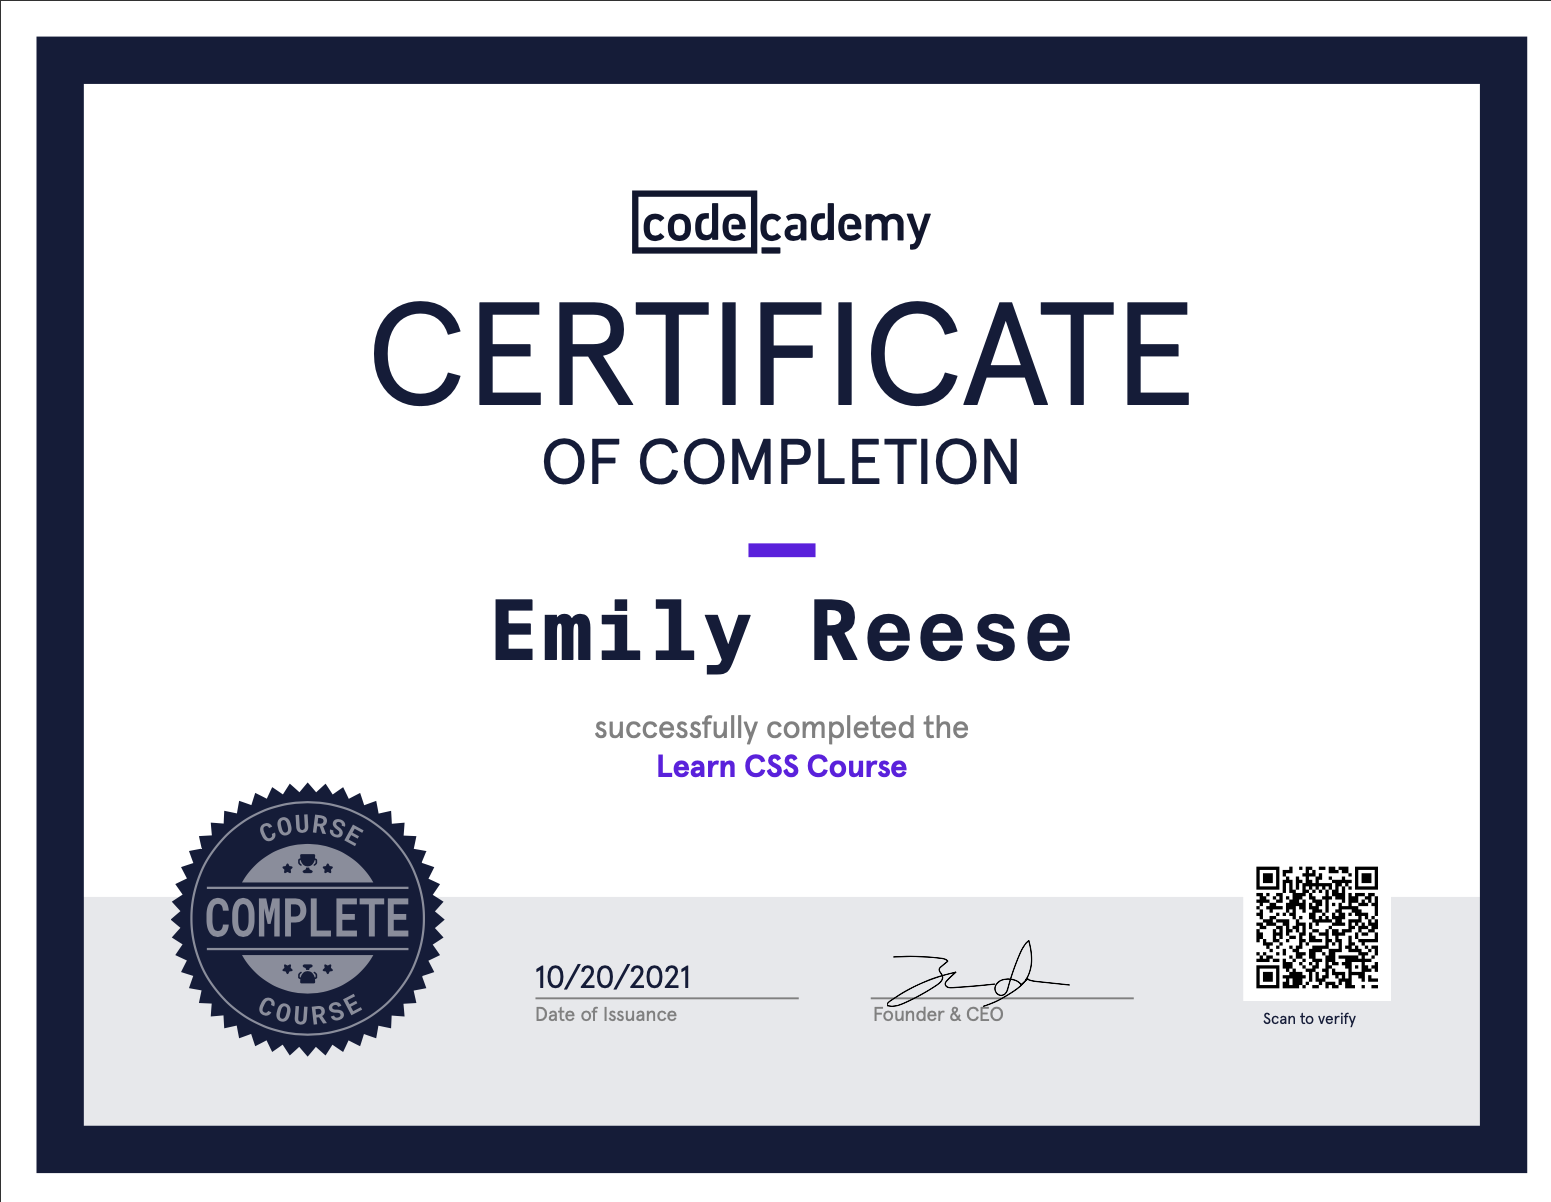
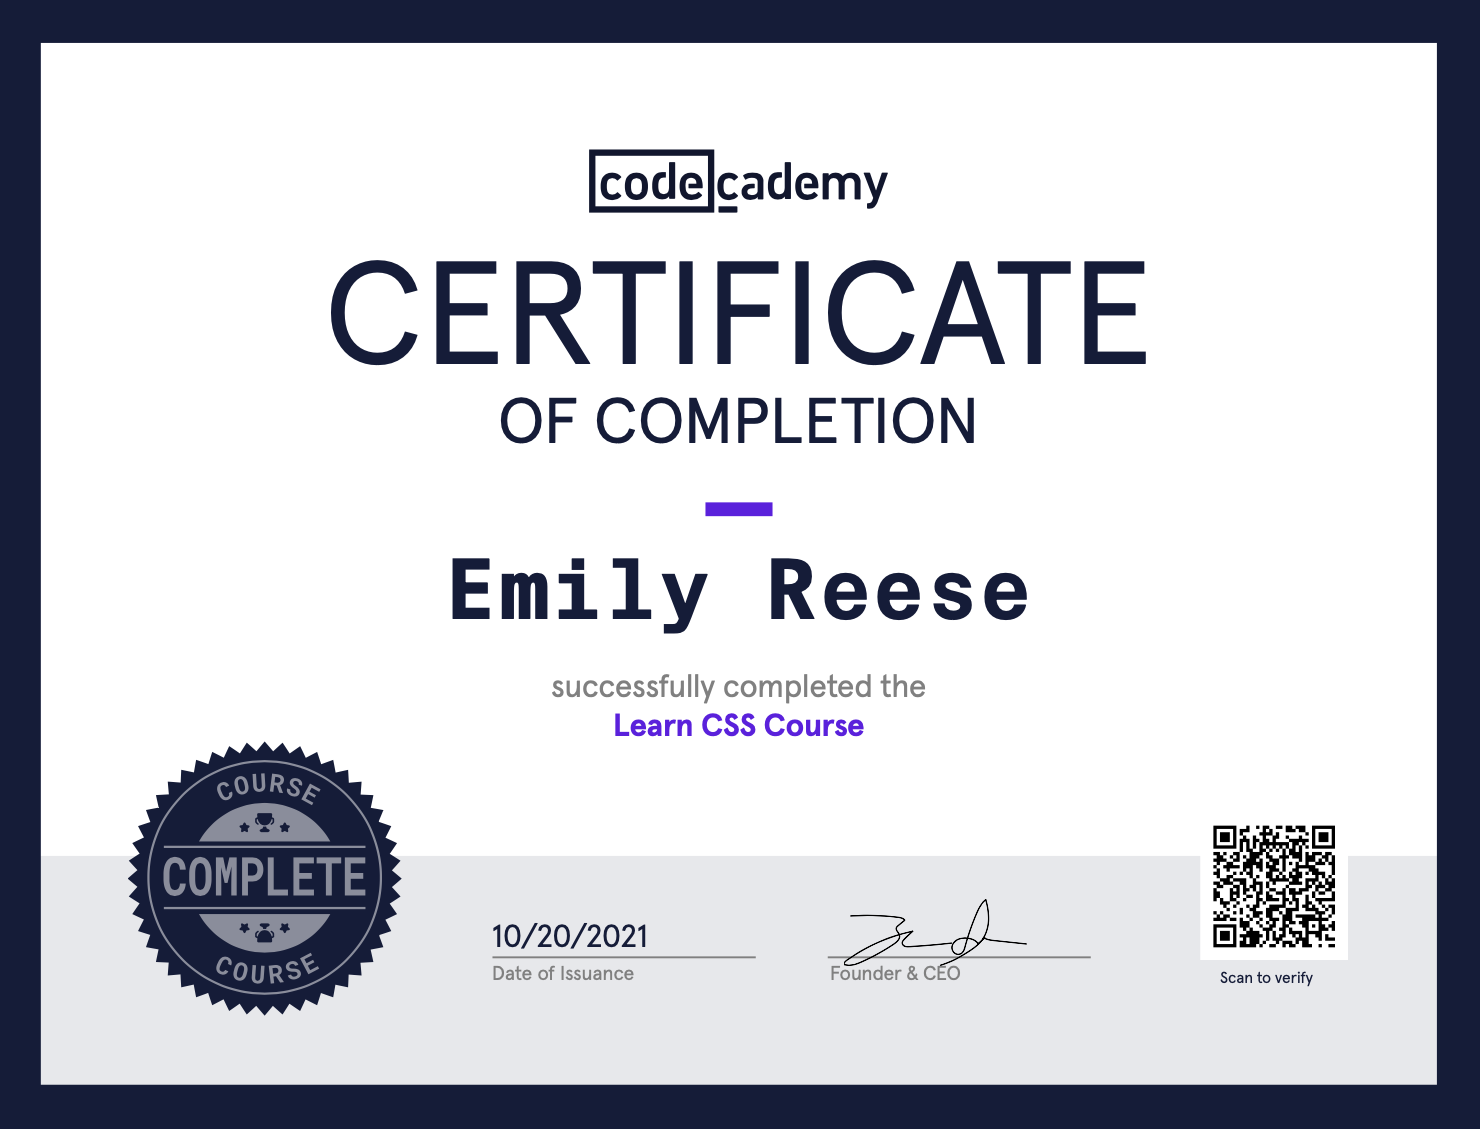
I sized my certifications on my 'About' page correctly.

diff --git a/src/components/Certifications.js b/src/components/Certifications.js
@@ -6,7 +6,7 @@ import "../stylesheets/certstylesheet.css"
 
 export default function Certifications (){
     return (
-        <div>
+        <div class="certContainer">
                <img  src={ GT }
                         alt="Full Stack Flex Web Development Course Completion Certificate"
                         className="certImage"

diff --git a/src/stylesheets/certstylesheet.css b/src/stylesheets/certstylesheet.css
@@ -1,4 +1,12 @@
+.certContainer {
+  box-sizing: border-box;
+  display: flex;
+  flex-wrap: flex-wrap;
+  align-items: center;
+}
+
 .certImage {
   max-height: 450px;
   max-width: 450px;
+  margin: 10% 2.5%;
 }
